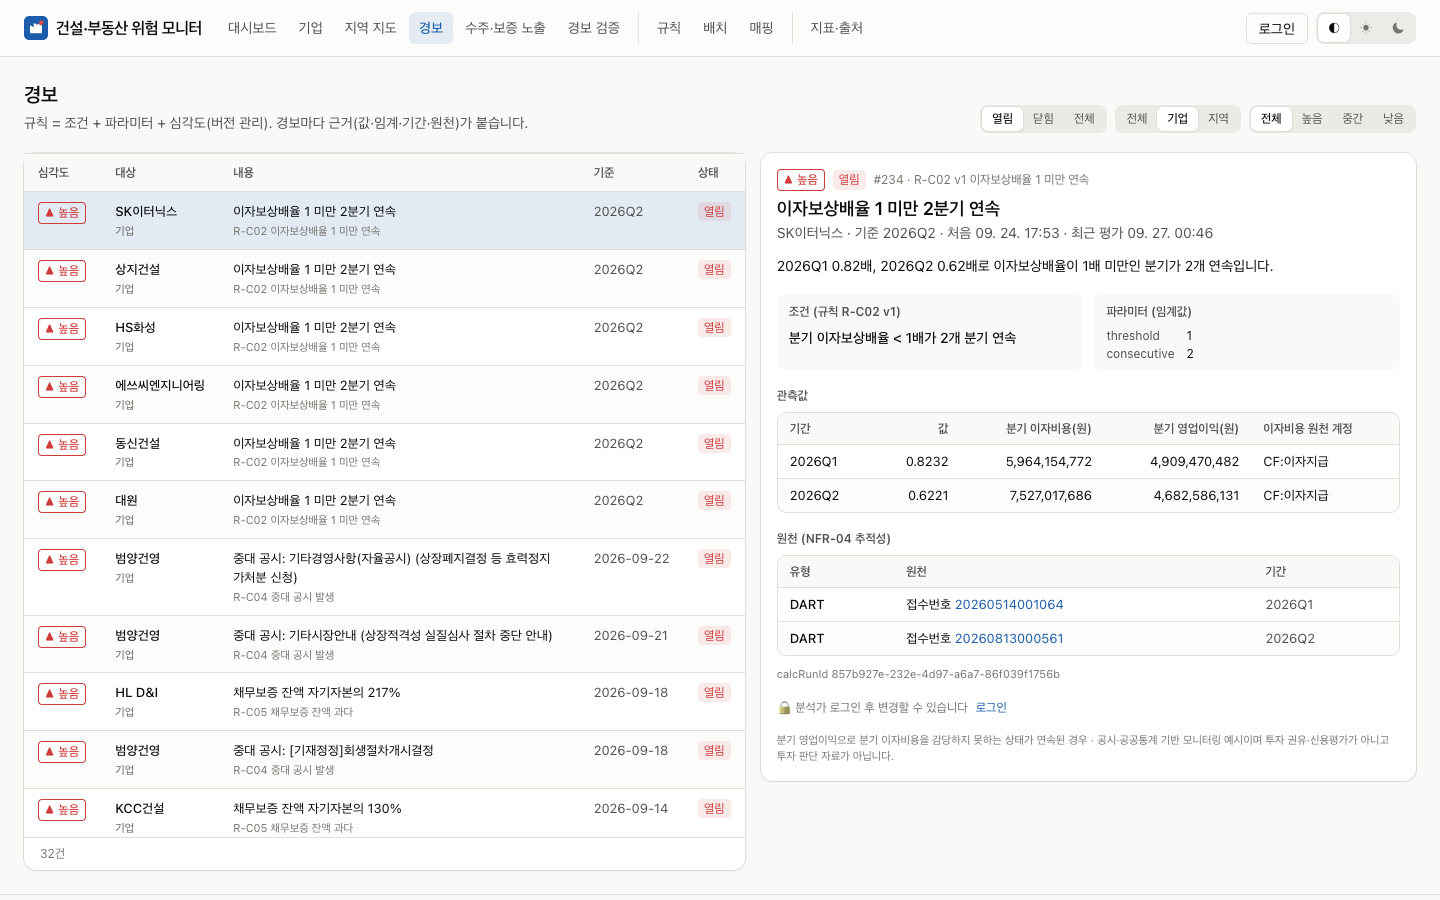
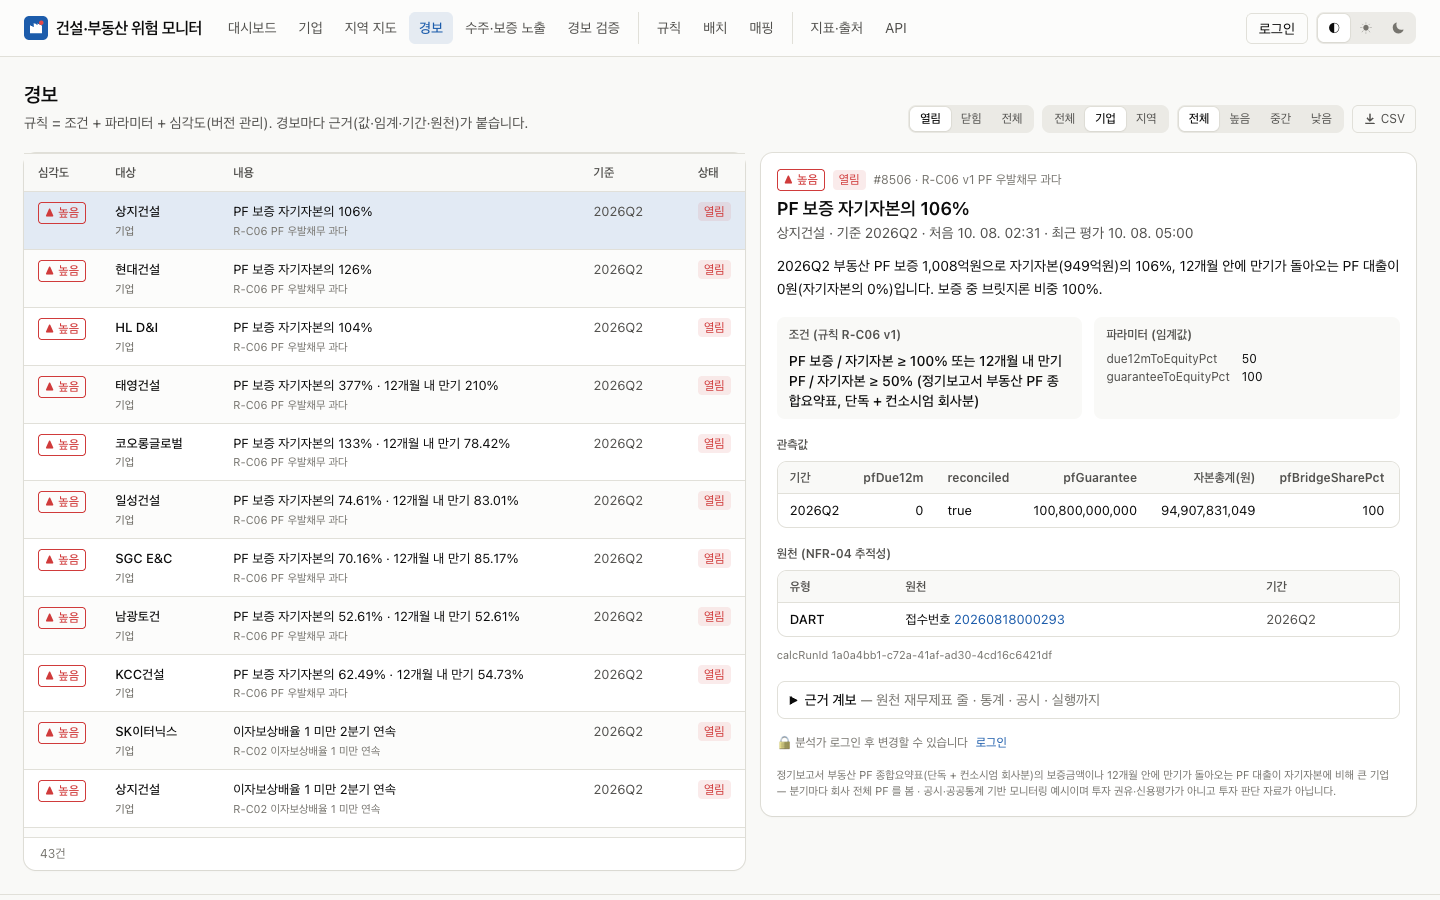
docs: 화면 캡처 갱신 — 근거 계보 · 질문에서 시작하기, README 화면 설명 맞춤
- capture.spec 에 근거 계보(경보 상세 펼침) 화면 추가, 전체 캡처 다시 찍음
- README: 대시보드 · 경보(근거 계보) · 경보 검증(성적표) · 지역 상세 설명을 현재 화면에 맞춤

diff --git a/web/e2e/capture.spec.ts b/web/e2e/capture.spec.ts
@@ -21,6 +21,12 @@ const shots: [string, string, (p: import("@playwright/test").Page) => Promise<vo
   ["backtest", "/backtest", async (p) => { await p.waitForTimeout(1500); }],
   ["company-filings", "/companies/00124540?tab=filings", async (p) => { await p.waitForTimeout(1200); }],
   ["company-price", "/companies/00124540?tab=price", async (p) => { await p.waitForTimeout(1500); }],
+  ["lineage", "/alerts", async (p) => {
+    const id = (await (await p.request.get("/api/v1/alerts?ruleCode=R-C02&status=OPEN,ACK,CLOSED&size=1")).json()).items[0].alertId;
+    await p.goto(`/alerts?status=OPEN%2CACK%2CCLOSED&id=${id}`); await p.waitForLoadState("networkidle");
+    await p.locator("summary", { hasText: "근거 계보" }).click(); await p.waitForTimeout(1200);
+    await p.getByText("표준계정 → 원천 재무제표 줄").scrollIntoViewIfNeeded(); await p.mouse.wheel(0, 260); await p.waitForTimeout(500);
+  }],
   ["region-trade", "/regions/41220", async (p) => { await p.waitForTimeout(1500); await p.getByText("아파트 매매 실거래 (국토부)").scrollIntoViewIfNeeded(); await p.waitForTimeout(500); }],
 ];
 
